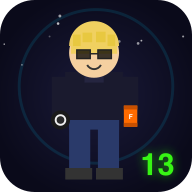
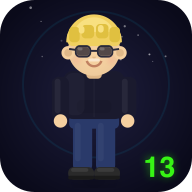
Improve graphics, add reset function, fix Malte character
- Completely rewrite drawPerson() with high-quality detailed rendering
  (gradients, shadows, hair highlights, detailed eyes, shoe soles, etc.)
- Add game state reset via ?reset URL parameter
- Fix Malte character to not wear glasses
- Generate improved app icon with detailed Matteo character

diff --git a/index.html b/index.html
@@ -289,124 +289,216 @@ canvas.game-cv{border:2px solid rgba(255,255,255,.2);border-radius:14px;touch-ac
 var S={aura:1000,runWon:false,nerfWon:false,qCorrect:0,qCur:0,qDone:false,qStreak:0,ach:{}};
 function saveState(){try{localStorage.setItem("matteo13",JSON.stringify(S))}catch(e){}}
 function loadState(){try{var d=localStorage.getItem("matteo13");if(d){var p=JSON.parse(d);for(var k in p)S[k]=p[k]}}catch(e){}}
-loadState();
+function resetState(){localStorage.removeItem("matteo13");S={aura:1000,runWon:false,nerfWon:false,qCorrect:0,qCur:0,qDone:false,qStreak:0,ach:{}};saveState()}
+if(location.search.indexOf("reset")>-1){resetState();history.replaceState(null,"",location.pathname)}else{loadState()}
 
 // STARS
 (function(){var e=document.getElementById("stars");for(var i=0;i<70;i++){var s=document.createElement("div");s.className="star";var z=(Math.random()*2.5+1)+"px";s.style.cssText="left:"+Math.random()*100+"%;top:"+Math.random()*100+"%;width:"+z+";height:"+z+";animation-delay:"+Math.random()*3+"s";e.appendChild(s)}})();
 
 // AVATAR - High quality character drawing
-function roundRect(x,cx,cy,w,h,r){x.beginPath();x.moveTo(cx+r,cy);x.lineTo(cx+w-r,cy);x.quadraticCurveTo(cx+w,cy,cx+w,cy+r);x.lineTo(cx+w,cy+h-r);x.quadraticCurveTo(cx+w,cy+h,cx+w-r,cy+h);x.lineTo(cx+r,cy+h);x.quadraticCurveTo(cx,cy+h,cx,cy+h-r);x.lineTo(cx,cy+r);x.quadraticCurveTo(cx,cy,cx+r,cy);x.closePath();x.fill()}
+function rr(x,cx,cy,w,h,r){x.beginPath();x.roundRect(cx,cy,w,h,r);x.fill()}
+function rrS(x,cx,cy,w,h,r){x.beginPath();x.roundRect(cx,cy,w,h,r);x.stroke()}
 
 function drawPerson(x,opts){
-  // opts: {scale, headY, bodyY, armL, armR, legSpread, hairColor, hairLong, skinTone, shirtColor, pantsColor, glasses, smile}
   var o=opts||{};
   x.save();
   x.lineCap="round";x.lineJoin="round";
-  var sc=o.scale||1;
-  x.scale(sc,sc);
+  x.scale(o.scale||1,o.scale||1);
 
-  var skin=o.skinTone||"#f5d0a0";
-  var hair=o.hairColor||"#f0d060";
-  var hairDk=o.hairDark||"#e0c040";
-  var shirt=o.shirtColor||"#1a1a2e";
-  var pants=o.pantsColor||"#2a3a6a";
-  var hy=o.headY||0;var by=o.bodyY||0;
-  var al=o.armL||0;var ar=o.armR||0;
-  var ls=o.legSpread||0;
+  var skin=o.skinTone||"#f5d0a0",skinSh=o.skinShadow||"#e0b888";
+  var hair=o.hairColor||"#f0d060",hairDk=o.hairDark||"#e0c040",hairLt=o.hairLight||"#f8e080";
+  var shirt=o.shirtColor||"#1a1a2e",shirtLt=o.shirtLight||"rgba(255,255,255,.06)";
+  var pants=o.pantsColor||"#2a3a6a",pantsLt="rgba(255,255,255,.04)";
+  var hy=o.headY||0,by=o.bodyY||0;
+  var al=o.armL||0,ar=o.armR||0,ls=o.legSpread||0;
 
-  // Shadow
-  x.fillStyle="rgba(0,0,0,.12)";
-  x.beginPath();x.ellipse(68,178+by,30+ls*2,6,0,0,Math.PI*2);x.fill();
+  // Ground shadow (soft ellipse)
+  var sg=x.createRadialGradient(68,178+by,2,68,178+by,34+Math.abs(ls)*2);
+  sg.addColorStop(0,"rgba(0,0,0,.18)");sg.addColorStop(1,"rgba(0,0,0,0)");
+  x.fillStyle=sg;x.fillRect(30,168+by,76,20);
 
-  // Legs/pants
+  // === LEGS ===
   x.fillStyle=pants;
-  roundRect(x,46-ls,118+by,20,52,5);roundRect(x,70+ls,118+by,20,52,5);
-  roundRect(x,42,112+by,52,14,4);
+  rr(x,46-ls,118+by,20,52,6);rr(x,70+ls,118+by,20,52,6);
+  // Belt area
+  rr(x,42,112+by,52,14,5);
+  // Pants highlight
+  x.fillStyle=pantsLt;
+  rr(x,48-ls,120+by,6,40,3);rr(x,72+ls,120+by,6,40,3);
+  // Pants crease
+  x.strokeStyle="rgba(0,0,0,.08)";x.lineWidth=1;
+  x.beginPath();x.moveTo(56-ls,125+by);x.lineTo(56-ls,168+by);x.stroke();
+  x.beginPath();x.moveTo(80+ls,125+by);x.lineTo(80+ls,168+by);x.stroke();
 
-  // Shoes
-  x.fillStyle="#333";
-  roundRect(x,42-ls,166+by,26,12,5);roundRect(x,68+ls,166+by,26,12,5);
+  // === SHOES ===
+  x.fillStyle="#2a2a2a";
+  rr(x,41-ls,166+by,27,13,6);rr(x,68+ls,166+by,27,13,6);
+  // Shoe sole
+  x.fillStyle="#1a1a1a";
+  rr(x,41-ls,175+by,27,4,2);rr(x,68+ls,175+by,27,4,2);
+  // Shoe highlight
+  x.fillStyle="rgba(255,255,255,.08)";
+  rr(x,44-ls,167+by,18,4,2);rr(x,71+ls,167+by,18,4,2);
 
-  // Body
+  // === BODY / HOODIE ===
   x.fillStyle=shirt;
-  roundRect(x,38,68+by,60,48,8);
-  // Hood detail
-  x.fillStyle="rgba(255,255,255,.04)";roundRect(x,52,70+by,32,10,4);
+  rr(x,36,66+by,64,50,10);
+  // Hoodie pocket
+  x.fillStyle="rgba(0,0,0,.06)";
+  rr(x,50,96+by,36,14,5);
+  // Hoodie center line
+  x.strokeStyle="rgba(255,255,255,.04)";x.lineWidth=1;
+  x.beginPath();x.moveTo(68,70+by);x.lineTo(68,114+by);x.stroke();
+  // Hood neckline
+  x.fillStyle=shirtLt;
+  x.beginPath();x.ellipse(68,68+by,18,6,0,0,Math.PI);x.fill();
+  // Shirt highlight (left side light)
+  x.fillStyle="rgba(255,255,255,.03)";
+  rr(x,38,68+by,20,44,8);
 
-  // Arms
-  x.save();
-  x.fillStyle=shirt;
+  // === ARMS ===
   // Left arm
   x.save();x.translate(38,76+by);x.rotate(al);
-  roundRect(x,-8,-4,16,42,6);x.restore();
+  x.fillStyle=shirt;rr(x,-9,-5,18,44,7);
+  x.fillStyle=shirtLt;rr(x,-6,-3,6,36,4);
+  x.restore();
   // Right arm
   x.save();x.translate(98,76+by);x.rotate(ar);
-  roundRect(x,-8,-4,16,42,6);x.restore();
+  x.fillStyle=shirt;rr(x,-9,-5,18,44,7);
+  x.fillStyle=shirtLt;rr(x,-6,-3,6,36,4);
   x.restore();
 
-  // Hands (skin)
+  // Hands
   x.fillStyle=skin;
-  var lhx=30+Math.sin(al)*38,lhy=112+by+Math.cos(al)*4;
-  var rhx=106+Math.sin(ar)*38,rhy=112+by+Math.cos(ar)*4;
-  x.beginPath();x.arc(lhx,lhy,6,0,Math.PI*2);x.fill();
-  x.beginPath();x.arc(rhx,rhy,6,0,Math.PI*2);x.fill();
+  var lhx=30+Math.sin(al)*40,lhy=114+by+Math.cos(al)*4;
+  var rhx=106+Math.sin(ar)*40,rhy=114+by+Math.cos(ar)*4;
+  x.beginPath();x.arc(lhx,lhy,7,0,Math.PI*2);x.fill();
+  x.beginPath();x.arc(rhx,rhy,7,0,Math.PI*2);x.fill();
+  // Hand shadow
+  x.fillStyle=skinSh;
+  x.beginPath();x.arc(lhx+1,lhy+2,5,0,Math.PI*2);x.fill();
+  x.beginPath();x.arc(rhx+1,rhy+2,5,0,Math.PI*2);x.fill();
 
-  // Head
+  // === HEAD ===
+  // Neck
+  x.fillStyle=skinSh;rr(x,60,60+hy,16,14,4);
+  // Head shape
   x.fillStyle=skin;
-  x.beginPath();x.arc(68,45+hy,26,0,Math.PI*2);x.fill();
+  x.beginPath();x.arc(68,44+hy,27,0,Math.PI*2);x.fill();
+  // Face shadow (subtle)
+  var fs=x.createRadialGradient(68,50+hy,8,68,50+hy,28);
+  fs.addColorStop(0,"rgba(0,0,0,0)");fs.addColorStop(1,"rgba(0,0,0,.04)");
+  x.fillStyle=fs;x.beginPath();x.arc(68,44+hy,27,0,Math.PI*2);x.fill();
   // Ears
-  x.beginPath();x.arc(42,48+hy,6,0,Math.PI*2);x.fill();
-  x.beginPath();x.arc(94,48+hy,6,0,Math.PI*2);x.fill();
+  x.fillStyle=skin;
+  x.beginPath();x.arc(41,47+hy,7,0,Math.PI*2);x.fill();
+  x.beginPath();x.arc(95,47+hy,7,0,Math.PI*2);x.fill();
+  // Ear inner
+  x.fillStyle=skinSh;
+  x.beginPath();x.arc(41,47+hy,4,0,Math.PI*2);x.fill();
+  x.beginPath();x.arc(95,47+hy,4,0,Math.PI*2);x.fill();
 
-  // Hair
+  // === HAIR ===
   x.fillStyle=hair;
-  x.beginPath();x.arc(68,38+hy,27,Math.PI,0);x.fill();
-  roundRect(x,42,28+hy,52,14,4);
-  // Hair strands
+  x.beginPath();x.arc(68,36+hy,29,Math.PI,0);x.fill();
+  rr(x,40,24+hy,56,16,6);
+  // Hair volume top
+  x.fillStyle=hairLt;
+  x.beginPath();x.arc(68,32+hy,22,Math.PI*1.1,Math.PI*1.9);x.fill();
+  // Hair strands with more detail
   x.fillStyle=hairDk;
-  roundRect(x,44,22+hy,10,14,3);roundRect(x,56,20+hy,12,12,3);
-  roundRect(x,70,19+hy,12,13,3);roundRect(x,82,22+hy,10,14,3);
+  rr(x,42,20+hy,11,16,4);rr(x,55,18+hy,13,14,4);
+  rr(x,70,17+hy,13,15,4);rr(x,84,20+hy,11,16,4);
+  // Hair highlight
+  x.fillStyle=hairLt;
+  rr(x,52,19+hy,6,8,3);rr(x,72,18+hy,6,8,3);
 
-  // Long hair for Linda
+  // Long hair (Linda)
   if(o.hairLong){
     x.fillStyle=hair;
-    roundRect(x,38,38+hy,10,50,4);roundRect(x,88,38+hy,10,50,4);
-    // Wavy
+    // Left flowing hair
+    x.beginPath();x.moveTo(42,36+hy);x.quadraticCurveTo(34,60+hy,36,90+hy);
+    x.lineTo(48,90+hy);x.quadraticCurveTo(46,60+hy,48,36+hy);x.fill();
+    // Right flowing hair
+    x.beginPath();x.moveTo(94,36+hy);x.quadraticCurveTo(102,60+hy,100,90+hy);
+    x.lineTo(88,90+hy);x.quadraticCurveTo(90,60+hy,88,36+hy);x.fill();
+    // Wavy highlights
+    x.fillStyle=hairLt;
+    x.beginPath();x.moveTo(44,45+hy);x.quadraticCurveTo(38,65+hy,40,80+hy);
+    x.lineTo(44,78+hy);x.quadraticCurveTo(42,63+hy,46,45+hy);x.fill();
+    x.beginPath();x.moveTo(92,45+hy);x.quadraticCurveTo(98,65+hy,96,80+hy);
+    x.lineTo(92,78+hy);x.quadraticCurveTo(94,63+hy,90,45+hy);x.fill();
+    // Dark wave accents
     x.fillStyle=hairDk;
-    roundRect(x,36,55+hy,8,28,3);roundRect(x,92,55+hy,8,28,3);
+    rr(x,36,58+hy,6,20,3);rr(x,94,58+hy,6,20,3);
   }
 
-  // Eyes or Glasses
+  // === FACE ===
   if(o.glasses){
-    x.fillStyle="rgba(20,20,40,0.8)";
-    roundRect(x,50,41+hy,14,10,3);roundRect(x,72,41+hy,14,10,3);
-    x.strokeStyle="#333";x.lineWidth=1.5;
-    x.beginPath();x.moveTo(64,46+hy);x.lineTo(72,46+hy);x.stroke();
-    // Lens shine
-    x.fillStyle="rgba(255,255,255,.15)";
-    x.fillRect(52,42+hy,4,3);x.fillRect(74,42+hy,4,3);
+    // Frame
+    x.strokeStyle="#2a2a3a";x.lineWidth=2;
+    rrS(x,49,40+hy,15,11,4);rrS(x,72,40+hy,15,11,4);
+    // Bridge
+    x.beginPath();x.moveTo(64,45+hy);x.lineTo(72,45+hy);x.stroke();
+    // Temple arms
+    x.beginPath();x.moveTo(49,44+hy);x.lineTo(42,43+hy);x.stroke();
+    x.beginPath();x.moveTo(87,44+hy);x.lineTo(94,43+hy);x.stroke();
+    // Lenses (dark tint)
+    x.fillStyle="rgba(15,15,35,0.7)";
+    rr(x,50,41+hy,13,9,3);rr(x,73,41+hy,13,9,3);
+    // Lens reflections
+    x.fillStyle="rgba(255,255,255,.2)";
+    rr(x,51,41.5+hy,5,3,1.5);rr(x,74,41.5+hy,5,3,1.5);
+    // Bottom rim light
+    x.fillStyle="rgba(255,255,255,.06)";
+    rr(x,50,47+hy,13,2,1);rr(x,73,47+hy,13,2,1);
   }else{
-    // Normal eyes
-    x.fillStyle="#333";
-    x.beginPath();x.arc(57,46+hy,3,0,Math.PI*2);x.fill();
-    x.beginPath();x.arc(79,46+hy,3,0,Math.PI*2);x.fill();
-    // Pupils
-    x.fillStyle="#111";
-    x.beginPath();x.arc(57,46+hy,1.5,0,Math.PI*2);x.fill();
-    x.beginPath();x.arc(79,46+hy,1.5,0,Math.PI*2);x.fill();
     // Eye whites
-    x.fillStyle="rgba(255,255,255,.6)";
-    x.beginPath();x.arc(55.5,44.5+hy,1,0,Math.PI*2);x.fill();
-    x.beginPath();x.arc(77.5,44.5+hy,1,0,Math.PI*2);x.fill();
+    x.fillStyle="#f8f8f8";
+    x.beginPath();x.ellipse(57,45+hy,5,4,0,0,Math.PI*2);x.fill();
+    x.beginPath();x.ellipse(79,45+hy,5,4,0,0,Math.PI*2);x.fill();
+    // Iris
+    x.fillStyle="#5a3a1a";
+    x.beginPath();x.arc(57,45.5+hy,3,0,Math.PI*2);x.fill();
+    x.beginPath();x.arc(79,45.5+hy,3,0,Math.PI*2);x.fill();
+    // Pupil
+    x.fillStyle="#1a1a1a";
+    x.beginPath();x.arc(57,45.5+hy,1.5,0,Math.PI*2);x.fill();
+    x.beginPath();x.arc(79,45.5+hy,1.5,0,Math.PI*2);x.fill();
+    // Eye sparkle
+    x.fillStyle="rgba(255,255,255,.8)";
+    x.beginPath();x.arc(55.5,44+hy,1.2,0,Math.PI*2);x.fill();
+    x.beginPath();x.arc(77.5,44+hy,1.2,0,Math.PI*2);x.fill();
+    // Eyelashes (subtle)
+    x.strokeStyle="rgba(0,0,0,.2)";x.lineWidth=1;
+    x.beginPath();x.arc(57,45+hy,5.5,Math.PI*1.15,Math.PI*1.85);x.stroke();
+    x.beginPath();x.arc(79,45+hy,5.5,Math.PI*1.15,Math.PI*1.85);x.stroke();
+    // Eyebrows
+    x.strokeStyle="rgba(60,40,20,.4)";x.lineWidth=1.5;
+    x.beginPath();x.arc(57,40+hy,7,Math.PI*1.2,Math.PI*1.8);x.stroke();
+    x.beginPath();x.arc(79,40+hy,7,Math.PI*1.2,Math.PI*1.8);x.stroke();
   }
 
-  // Smile
-  x.strokeStyle="#c08060";x.lineWidth=2;
-  x.beginPath();x.arc(68,52+hy,o.smile||8,0.15*Math.PI,0.85*Math.PI);x.stroke();
+  // Nose (subtle)
+  x.fillStyle="rgba(0,0,0,.03)";
+  x.beginPath();x.arc(68,50+hy,3,0,Math.PI*2);x.fill();
+  x.fillStyle=skinSh;
+  x.beginPath();x.arc(68,51+hy,2,0,Math.PI);x.fill();
+
+  // Mouth / Smile
+  x.strokeStyle="#c08060";x.lineWidth=2.5;
+  x.beginPath();x.arc(68,53+hy,o.smile||8,0.1*Math.PI,0.9*Math.PI);x.stroke();
+  // Teeth hint
+  x.fillStyle="rgba(255,255,255,.5)";
+  rr(x,62,53+hy,12,3,1.5);
+
   // Blush
-  x.fillStyle="rgba(255,150,150,.15)";
-  x.beginPath();x.arc(50,54+hy,6,0,Math.PI*2);x.fill();
-  x.beginPath();x.arc(86,54+hy,6,0,Math.PI*2);x.fill();
+  var bl=x.createRadialGradient(50,55+hy,0,50,55+hy,7);
+  bl.addColorStop(0,"rgba(255,130,130,.18)");bl.addColorStop(1,"rgba(255,130,130,0)");
+  x.fillStyle=bl;x.fillRect(43,48+hy,14,14);
+  var br=x.createRadialGradient(86,55+hy,0,86,55+hy,7);
+  br.addColorStop(0,"rgba(255,130,130,.18)");br.addColorStop(1,"rgba(255,130,130,0)");
+  x.fillStyle=br;x.fillRect(79,48+hy,14,14);
 
   x.restore();
 }
@@ -468,10 +560,10 @@ function danceLoop(){
   var armSwing=Math.sin(t*4)*0.5;
   var legSwing=Math.sin(t*4)*3;
 
-  // Malte (left, taller) - blonde, glasses
+  // Malte (left, taller) - blonde, no glasses
   DX.save();DX.translate(80,20);DX.scale(1.15,1.15);
   drawPerson(DX,{
-    scale:1,glasses:true,
+    scale:1,glasses:false,
     hairColor:"#f0d060",hairDark:"#dbb830",
     shirtColor:"#2a2a4e",pantsColor:"#2a3a5a",
     headY:bounce*0.8,bodyY:bounce*0.5,
